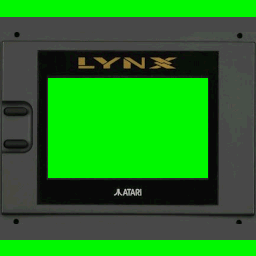
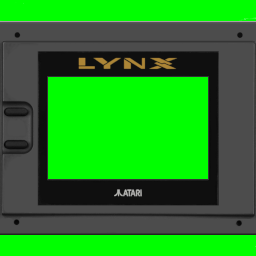
New Lynx border, moved sound volume reg to asm.

diff --git a/source/handy/mikie.cpp b/source/handy/mikie.cpp
@@ -105,19 +105,17 @@ ULONG CMikie::GetLfsrNext(ULONG current)
 	// If the index is a combination of Current LFSR+Feedback the
 	// table will give the next value.
 
-	static ULONG switches,lfsr,next,swloop,result;
 	static const ULONG switchbits[9]={7,0,1,2,3,4,5,10,11};
 
-	switches = current >> 12;
-	lfsr = current & 0xfff;
-	result = 0;
-	for (swloop=0;swloop<9;swloop++) {
+	u32 switches = current >> 12;
+	u32 lfsr = current & 0xfff;
+	u32 result = 0;
+	for (int swloop=0;swloop<9;swloop++) {
 		if ((switches >> swloop) & 0x001)
 			result ^= (lfsr >> switchbits[swloop]) & 0x001;
 	}
 	result = (result) ? 0 : 1;
-	next = (switches << 12) | ((lfsr << 1) & 0xffe) | result;
-	return next;
+	return (switches << 12) | ((lfsr << 1) & 0xffe) | result;
 }
 
 void CMikie::PresetForHomebrew(void)
@@ -192,16 +190,16 @@ void CMikie::Poke(ULONG addr, UBYTE data)
 {
 	switch(addr & 0xff)
 	{
-		case (AUD0VOL & 0xff):
-			// Counter is disabled when volume is zero for optimisation
-			// reasons, we must update the last use position to stop problems
-			if (!mikey_0.aud0Vol && data) {
-				mAUDIO_0.LAST_COUNT = gSystemCycleCount;
-				gNextTimerEvent = gSystemCycleCount;
-			}
-			mikey_0.aud0Vol = (SBYTE)data;
-			TRACE_MIKIE2("Poke(AUD0VOL,%02x) at PC=%04x", data, mSystem.mCpu->GetPC());
-			break;
+//		case (AUD0VOL & 0xff):
+//			// Counter is disabled when volume is zero for optimisation
+//			// reasons, we must update the last use position to stop problems
+//			if (!mikey_0.aud0Vol && data) {
+//				mAUDIO_0.LAST_COUNT = gSystemCycleCount;
+//				gNextTimerEvent = gSystemCycleCount;
+//			}
+//			mikey_0.aud0Vol = (SBYTE)data;
+//			TRACE_MIKIE2("Poke(AUD0VOL,%02x) at PC=%04x", data, mSystem.mCpu->GetPC());
+//			break;
 		case (AUD0TBACK & 0xff):
 			// Counter is disabled when backup is zero for optimisation
 			// due to the fact that the output frequency will be above audio
@@ -214,16 +212,16 @@ void CMikie::Poke(ULONG addr, UBYTE data)
 			TRACE_MIKIE2("Poke(AUD0TBACK,%02x) at PC=%04x", data, mSystem.mCpu->GetPC());
 			break;
 
-		case (AUD1VOL & 0xff):
-			// Counter is disabled when volume is zero for optimisation
-			// reasons, we must update the last use position to stop problems
-			if (!mikey_0.aud1Vol && data) {
-				mAUDIO_1.LAST_COUNT = gSystemCycleCount;
-				gNextTimerEvent = gSystemCycleCount;
-			}
-			mikey_0.aud1Vol = (SBYTE)data;
-			TRACE_MIKIE2("Poke(AUD1VOL,%02x) at PC=%04x", data, mSystem.mCpu->GetPC());
-			break;
+//		case (AUD1VOL & 0xff):
+//			// Counter is disabled when volume is zero for optimisation
+//			// reasons, we must update the last use position to stop problems
+//			if (!mikey_0.aud1Vol && data) {
+//				mAUDIO_1.LAST_COUNT = gSystemCycleCount;
+//				gNextTimerEvent = gSystemCycleCount;
+//			}
+//			mikey_0.aud1Vol = (SBYTE)data;
+//			TRACE_MIKIE2("Poke(AUD1VOL,%02x) at PC=%04x", data, mSystem.mCpu->GetPC());
+//			break;
 		case (AUD1TBACK & 0xff):
 			// Counter is disabled when backup is zero for optimisation
 			// due to the fact that the output frequency will be above audio
@@ -236,16 +234,16 @@ void CMikie::Poke(ULONG addr, UBYTE data)
 			TRACE_MIKIE2("Poke(AUD1TBACK,%02x) at PC=%04x", data, mSystem.mCpu->GetPC());
 			break;
 
-		case (AUD2VOL&0xff): 
-			// Counter is disabled when volume is zero for optimisation
-			// reasons, we must update the last use position to stop problems
-			if (!mikey_0.aud2Vol && data) {
-				mAUDIO_2.LAST_COUNT = gSystemCycleCount;
-				gNextTimerEvent = gSystemCycleCount;
-			}
-			mikey_0.aud2Vol = (SBYTE)data;
-			TRACE_MIKIE2("Poke(AUD2VOL,%02x) at PC=%04x", data, mSystem.mCpu->GetPC());
-			break;
+//		case (AUD2VOL&0xff): 
+//			// Counter is disabled when volume is zero for optimisation
+//			// reasons, we must update the last use position to stop problems
+//			if (!mikey_0.aud2Vol && data) {
+//				mAUDIO_2.LAST_COUNT = gSystemCycleCount;
+//				gNextTimerEvent = gSystemCycleCount;
+//			}
+//			mikey_0.aud2Vol = (SBYTE)data;
+//			TRACE_MIKIE2("Poke(AUD2VOL,%02x) at PC=%04x", data, mSystem.mCpu->GetPC());
+//			break;
 		case (AUD2TBACK & 0xff):
 			// Counter is disabled when backup is zero for optimisation
 			// due to the fact that the output frequency will be above audio
@@ -258,16 +256,16 @@ void CMikie::Poke(ULONG addr, UBYTE data)
 			TRACE_MIKIE2("Poke(AUD2TBACK,%02x) at PC=%04x", data, mSystem.mCpu->GetPC());
 			break;
 
-		case (AUD3VOL & 0xff):
-			// Counter is disabled when volume is zero for optimisation
-			// reasons, we must update the last use position to stop problems
-			if (!mikey_0.aud3Vol && data) {
-				mAUDIO_3.LAST_COUNT = gSystemCycleCount;
-				gNextTimerEvent = gSystemCycleCount;
-			}
-			mikey_0.aud3Vol = (SBYTE)data;
-			TRACE_MIKIE2("Poke(AUD3VOL,%02x) at PC=%04x", data, mSystem.mCpu->GetPC());
-			break;
+//		case (AUD3VOL & 0xff):
+//			// Counter is disabled when volume is zero for optimisation
+//			// reasons, we must update the last use position to stop problems
+//			if (!mikey_0.aud3Vol && data) {
+//				mAUDIO_3.LAST_COUNT = gSystemCycleCount;
+//				gNextTimerEvent = gSystemCycleCount;
+//			}
+//			mikey_0.aud3Vol = (SBYTE)data;
+//			TRACE_MIKIE2("Poke(AUD3VOL,%02x) at PC=%04x", data, mSystem.mCpu->GetPC());
+//			break;
 		case (AUD3TBACK & 0xff):
 			// Counter is disabled when backup is zero for optimisation
 			// due to the fact that the output frequency will be above audio

diff --git a/source/handy/gpmain.cpp b/source/handy/gpmain.cpp
@@ -6,7 +6,7 @@ extern "C" {
 void runTimer4(u32 sysCount);
 void mikiePoke(u32 addr, u8 data);
 u8 mikiePeek(u32 addr);
-void GpInit(u8 *gamerom, u32 size);
+void GpInit(void);
 void GpDelete(void);
 }
 
@@ -22,8 +22,8 @@ UBYTE mikiePeek(u32 addr) {
 	return newsystem->mMikie->Peek(addr);
 }
 
-void GpInit(u8 *gamerom, u32 size) {
-	newsystem = new CSystem(gamerom, size);
+void GpInit(void) {
+	newsystem = new CSystem();
 }
 
 void GpDelete() {

diff --git a/source/FileHandling.c b/source/FileHandling.c
@@ -164,7 +164,7 @@ bool loadGame(const char *gameName) {
 		gRomSize = loadROM(romSpacePtr, gameName, maxRomSize);
 		if (gRomSize) {
 			GpDelete();
-			GpInit(romSpacePtr, gRomSize);
+			GpInit();
 //			checkMachine();
 //			setEmuSpeed(0);
 			loadCart();

diff --git a/source/handy/system.h b/source/handy/system.h
@@ -55,13 +55,12 @@
 
 class CSystem;
 
-#include "sysbase.h"
 #include "mikie.h"
 
-class CSystem : public CSystemBase
+class CSystem
 {
 	public:
-		CSystem(UBYTE *gamefile, int size);
+		CSystem(void);
 		~CSystem();
 
 	public:

diff --git a/source/handy/system.cpp b/source/handy/system.cpp
@@ -32,11 +32,9 @@
 #include <stdlib.h>
 #include "system.h"
 
-CSystem::CSystem(UBYTE *gamefile, int size)
+CSystem::CSystem(void)
 	:mMikie(NULL)
 {
-	// Attempt to load the cartridge
-
 	mMikie = new CMikie(*this);
 
 	Reset();

diff --git a/source/Main.h b/source/Main.h
@@ -20,7 +20,7 @@ void pausVBlank(int count);
 void setEmuSpeed(int speed);
 void setupMenuPalette(void);
 
-void GpInit(u8 *gamerom, u32 size);
+void GpInit(void);
 void GpDelete(void);
 
 #ifdef __cplusplus

diff --git a/source/Main.c b/source/Main.c
@@ -80,7 +80,7 @@ int main(int argc, char **argv) {
 		redrawUI();
 	}
 	else {
-		GpInit(romSpacePtr, gRomSize);
+		GpInit();
 		infoOutput("fatInitDefault() failure.");
 	}
 
